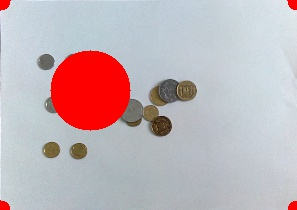
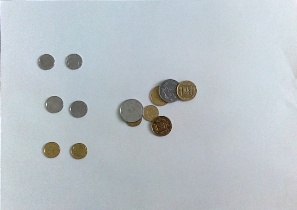
Added new samples, changed color detection, changed radius in coins segmentation

diff --git a/CoinsFinding/CoinsSegmentation.cpp b/CoinsFinding/CoinsSegmentation.cpp
@@ -15,7 +15,7 @@ using namespace std;
 void non_maxima_suppression(const cv::Mat& src, cv::Mat& mask, const bool remove_plateaus)
 {
 	// find pixels that are equal to the local neighborhood not maximum (including 'plateaus')
-	cv::dilate(src, mask, getStructuringElement(MORPH_ELLIPSE, Size(5,5)));
+	cv::dilate(src, mask, getStructuringElement(MORPH_ELLIPSE, Size(3,3)));
 	cv::compare(src, mask, mask, cv::CMP_GE);
 
 	// optionally filter out pixels that are equal to the local minimum ('plateaus')
@@ -65,7 +65,7 @@ circleType mergeNearest(circleType circles, int minDist, cv::Mat& dst)
 		float r;
 		auto rIt = std::max_element(i.begin(), i.end(), [&](Point2f l, Point2f r) { return dst.at<float>(l) < dst.at<float>(r); });
 		r = dst.at<float>(*rIt);
-		average.push_back(make_pair(r+2, sum));
+		average.push_back(make_pair(r+0.5, sum));
 	}
 	return average;
 }
@@ -123,10 +123,10 @@ void segmentCoins(std::vector<std::pair<float, cv::Point2f>>& circles, cv::Mat s
 	cvtColor(mask, bm, CV_BGR2GRAY);
 	threshold(bm, mask, 255 / 3, 255, THRESH_BINARY);
 	threshold(bm, mask, 255 / 3, 255, THRESH_BINARY_INV);*/
-	//mask = getMask(source);
-	Mat clone = source.clone();
+	mask = getMask(source);
+	/*Mat clone = source.clone();
 	autoContrast(clone);
-	mask = truncInv(clone);
+	mask = truncInv(clone);*/
 
 	for (auto i : circles)
 	{

diff --git a/CoinsFinding/DetectCoin.cpp b/CoinsFinding/DetectCoin.cpp
@@ -170,20 +170,22 @@ void find_sum(Mat& mat, vector<pair<float, Point2f>>& circles, CoinsData& coinsD
 //	imshow("value", valuesMat);
 	imshow("original", mat);
 	waitKey();
+	cout << "Sum = " << sum << endl;
 }
+
 bool is_silver(Mat& orig_pict, Point2f center, float radius)
 {
 	bool labB;
 	bool hslB;
-	{
 		Mat mask = Mat::zeros(orig_pict.size(), CV_8UC1);
+	{
 		circle(mask, center, radius, Scalar(255), -1);
 		Mat lab_pict;
 		cvtColor(orig_pict, lab_pict, CV_BGR2Lab);
 		Mat pl[3];
 		split(lab_pict, pl);
 		Scalar mean_val = mean(lab_pict, mask);
-		labB = mean_val[2] < 255 / 2.0;
+		labB = mean_val[2] < (255 / 2.0 + 4);
 	}
 
 	{

diff --git a/CoinsFinding/CoinsFindingSource.cpp b/CoinsFinding/CoinsFindingSource.cpp
@@ -101,9 +101,10 @@ int main()
 				cout << "Overexposed: " << boolalpha << isOverexposed(source) << endl;
 				/*autoContrast(source);
 				truncInv(source);*/
-				detectSilver(source);
+				//detectSilver(source);
 				Mat segm = source.clone();
 				source = bilaterialBlurCoins(source);
+				Mat m = getMask(source);
 				outputImg = source.clone();
 				auto circles = findCircleContours(source, outputImg);
 

diff --git a/Coins/CoinsSource.cpp b/Coins/CoinsSource.cpp
@@ -99,7 +99,7 @@ void changeInput(int, void* img)
 
 
 	vector<Vec3i> circles{ Vec3i(20,20,5), Vec3i(80,90, 15) };
-	circleProjection(circles, sourceCopy, sourceCorners, transfromedPoints);
+	//circleProjection(circles, sourceCopy, sourceCorners, transfromedPoints);
 
 	cropInterestRegion(dst, transfromedPoints);
 	imwrite(a4 + name + "_cropped_" + ext, dst);
